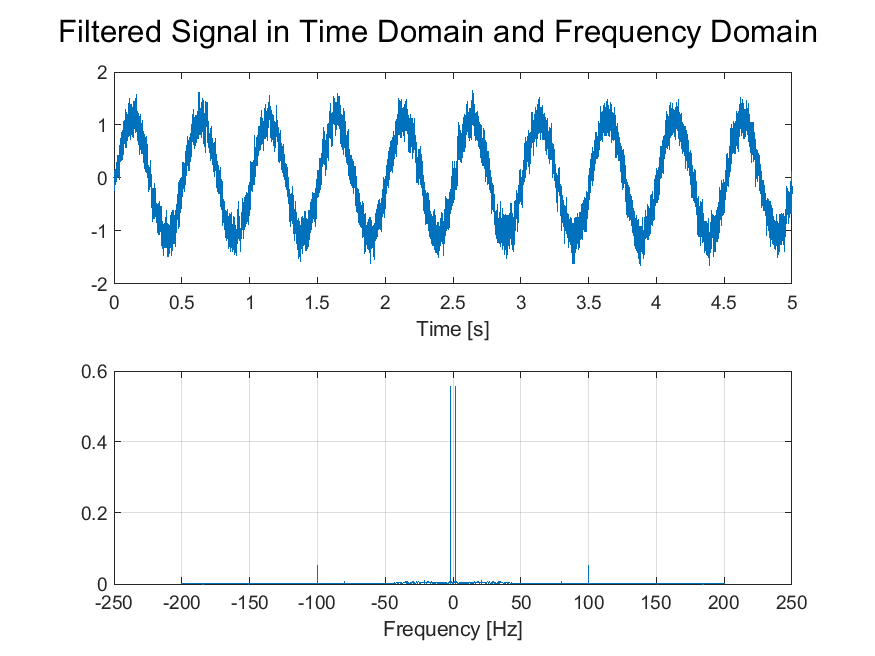
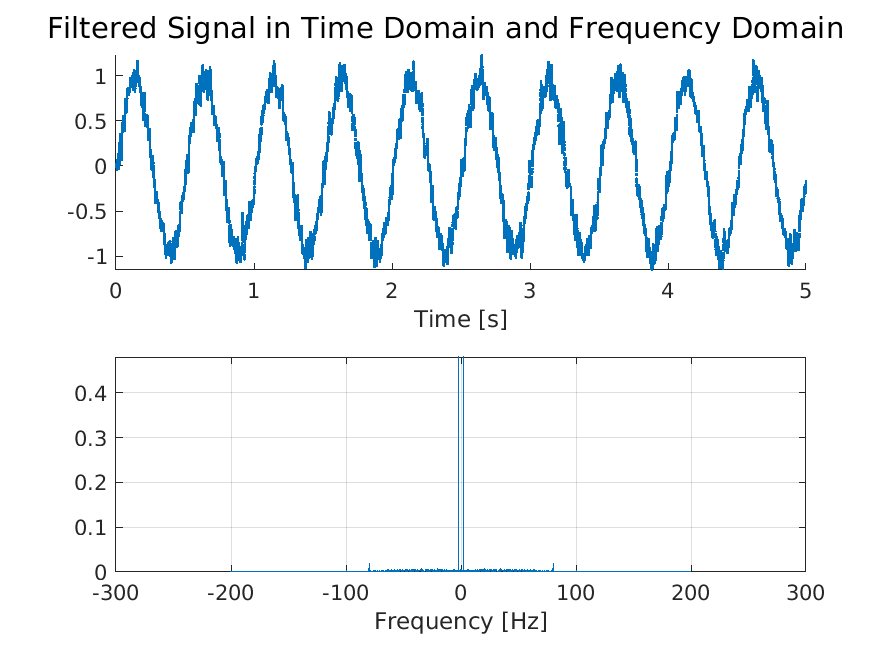
Add files via upload
Monday :)

diff --git a/Homework 1/SIS_21-22_hwk1_material/material_hw1/part02/reconstruct_signal.m b/Homework 1/SIS_21-22_hwk1_material/material_hw1/part02/reconstruct_signal.m
@@ -20,6 +20,27 @@ switch interp_method
 end
 
 % TODO: plot the fft of reconstructed signal 
+figure(3)
+dataFrequency = 5000;
+subplot(2,1,1);
+plot(tr,yr)
+xlabel("Time [s]")
+ylim([-2 2]);
+
+% Plot in frequency domain (fft)
+subplot(2,1,2);
+YR = fft(yr);
+Fmax = 200;
+fty=abs(YR/length(yr));
+f=dataFrequency/2*linspace(0,1,round(length(yr)/2));
+fty=fty(1:length(f));
+maxIndex=find(f>Fmax,1);
+plot([-f(maxIndex:-1:2) f(1:maxIndex)], [fty(maxIndex:-1:2) fty(1:maxIndex)]); grid on;
+xlabel("Frequency [Hz]")
+sgtitle("Signal in Frequency Domain");
+saveas(figure(3), "Filtered_Signal_fdomain", "png");
+
+
 
 
 end
@@ -27,16 +48,51 @@ end
 
 % TODO: Reconstruct signal by using Whittaker-Shannon interpolation
 function yr=wsSignalReconstruction(tr,ts,ys)
-
+ if(length(tr)<5*length(ts))
+        error('Reconstructed signal must have a frequency 5 times bigger than the sampling frequency');
+ end
+    Ts=(ts(2)-ts(1));
+    yr=zeros(1,length(tr));
+    %Shift from sampled signal to reconstructed signal
+    for j=1:length(tr)
+        for k=1:length(ys)        
+            shift=tr(j)-ts(k);
+            yr(j)=yr(j)+sinc(shift/Ts)*ys(k);
+        end
+    end
 
 end
 
 % TODO: Reconstruct signal by using first order hold interpolation
 function yr=FirstOrderHoldReconstruction(tr,ts,ys)
-
+    if(length(tr)<5*length(ts))
+     error('Reconstructed signal must have a frequency 5 times bigger than the sampling frequency');
+     end
+    k=0;
+    Ts=(ts(2)-ts(1));
+    Tr=(tr(2)-tr(1));
+    yr=zeros(1,length(tr));
+    for j=1:length(ts)-1
+        for k=k+1:k+round(Ts/Tr)
+            yr(k)=ys(j)+(ys(j+1)-ys(j))*(tr(k)-ts(j))/Ts;
+        end
+    end
 end
 
 % TODO: Reconstruct signal by using zero order hold interpolation
 function yr=ZeroOrderHoldReconstruction(tr,ts,ys)
+    if(length(tr)<5*length(ts))
+     error('Reconstructed signal must have a frequency 5 times bigger than the sampling frequency');
+    end
+    k=0;
+    Ts=(ts(2)-ts(1));
+    Tr=(tr(2)-tr(1));
+    yr=zeros(1,length(tr));
+    for j=1:length(ts)-1
+        for k=k+1:k+round(Ts/Tr)
+            yr(k)=ys(j);
+        end
+    end
+    
 
 end

diff --git a/Homework 1/SIS_21-22_hwk1_material/material_hw1/part02/part02.m b/Homework 1/SIS_21-22_hwk1_material/material_hw1/part02/part02.m
@@ -1,3 +1,5 @@
+
+
 %% part02: Fourier transform, signal reconstruction and filtering
 % Wanting Jin, wanting.jin@epfl.ch, Oct 2021
 clear all
@@ -16,7 +18,7 @@ t1=-limit/2:1/dataFrequency:limit/2;
 figure(1)
 subplot(2,1,1);
 % Plot in time domain
-plot(t, acc)
+scatter(t, acc, 5, '.')
 xlabel("Time [s]");
 
 subplot(2,1,2);
@@ -43,8 +45,9 @@ acc_filtered = filter_data(acc, low_pass);
 figure(2)
 % Plot in time domain
 subplot(2,1,1);
-plot(t,acc_filtered')
+scatter(t,acc_filtered', 5, '.')
 xlabel("Time [s]")
+
 
 % Plot in frequency domain (fft)
 subplot(2,1,2);
@@ -58,13 +61,13 @@ plot([-f(maxIndex:-1:2) f(1:maxIndex)], [fty(maxIndex:-1:2) fty(1:maxIndex)]); g
 xlabel("Frequency [Hz]")
 sgtitle("Filtered Signal in Time Domain and Frequency Domain");
 saveas(figure(2), "Filtered_Signal_tdomain_fdomain", "png");
-
+ 
 %save('hw1_part2.mat','low_pass');
 
 %% Q6 Sampling the signal
 % Sample the signal at 10 * freq_max
 
-[val index] = max(fty);
+[val, index] = max(fty);
 freq_max = f(index);
 Fs = 10*freq_max;
 
@@ -72,10 +75,8 @@ Fs = 10*freq_max;
 
 %% Q7 (Use reconstruct_signal() function)
 % TODO: reconstrut signal with different interpolation method
-% reconstruct_freq = 200;
-%[tr_zero, acc_r_zerohold] = reconstruct_signal(reconstruct_freq, ts, acc_sampled,'zero_order_interp');
+reconstruct_freq = 200;
+[tr_zero, acc_r_zerohold] = reconstruct_signal(reconstruct_freq, ts, acc_sampled,'zero_order_interp');
 %[tr_first, acc_r_firsthold] = reconstruct_signal(reconstruct_freq, ts, acc_sampled,'first_order_interp');
 %[tr_ws, acc_r_ws] = reconstruct_signal(reconstruct_freq, ts, acc_sampled,'ws_interp');
-
-
 

diff --git a/Homework 1/SIS_21-22_hwk1_material/material_hw1/part03/part03.m b/Homework 1/SIS_21-22_hwk1_material/material_hw1/part03/part03.m
@@ -2,14 +2,35 @@
 % Kagan Erunsal, kagan.erunsal@epfl.ch, Oct 2021
 
 %% Q11 (use ilaplace())
+syms C_sym R_sym s_sym t_sym u_sym
+assume(s_sym >0);
+H2 = 1/(s_sym*C_sym*R_sym+ 1);
+h2 = ilaplace(H2, s_sym); 
+simplify(h2);
 
 %% Q12
+R = 1;
+C = 1; 
+H1 = R/(s_sym*C*R + 1);
 
 % a (use tf() and step())
-
+figure(1)
+subplot(2,1,1)
+H1_tf = tf(R, [C*R, 1]);
+step(H1_tf)
 
 % b (use int())
+assume(s_sym, 'clear')
+assume(t_sym > 0);
+h1 = (1/C)*(exp(-t_sym/(C*R))*u_sym);
+H1_int = int(h1, t_sym, -inf, inf);
+simplify(h1);
+simplify(H1_int);
 
+subplot(2,1,2)
+fplot(H1_int)
+saveas(figure(1), "Q12_Step_response", "png");
+assume(t_sym, 'clear')
 %% Q13
 
 

diff --git a/Homework 1/SIS_21-22_hwk1_material/material_hw1/part02/sample_data.m b/Homework 1/SIS_21-22_hwk1_material/material_hw1/part02/sample_data.m
@@ -6,12 +6,19 @@ function [ts,ys]=sample_data(t,y,Fs)
 % y: original data
 % Fs: sampling frequency
 
-ts = zeros(round(length(y)/20),1);
-ys = zeros(round(length(y)/20),1);
-
-for i=1:1:round(length(y)/20)
-    ts(i) = t(i+20);
-    ys(i) = y(i+20);
+% ts = zeros(round(length(y)/20),1);
+% ys = zeros(round(length(y)/20),1);
+% 
+% for i=1:1:round(length(y)/20)
+%     ts(i) = t(i+20);
+%     ys(i) = y(i+20);
+% end
+originalFrequency=1/(t(2)-t(1));
+if(5*Fs>originalFrequency)
+    error('Sampling frequency must be at least 5 times smaller than the original frequency');
 end
+step=round(originalFrequency/Fs);
+ts=t(1:step:end);
+ys=y(1:step:end);
 
 end

diff --git a/Homework 1/SIS_21-22_hwk1_material/material_hw1/part01/part01.m b/Homework 1/SIS_21-22_hwk1_material/material_hw1/part01/part01.m
@@ -18,7 +18,7 @@ for i=1:length(n)
 end 
 
  figure(1)
- scatter(n,s)
+ stem(n,s, '.')
  title('Signal s');
  xlabel('n');
  ylabel('s[n]')
@@ -34,7 +34,7 @@ for i=1:length(n)
 end 
 
  figure(2)
- scatter(n,h)
+ stem(n,h, '.')
  title('Signal h');
  xlabel('n');
  ylabel('h[n]')
@@ -46,5 +46,5 @@ second_signal = s;
 result = take_conv(first_signal,second_signal);
 x = -length(n)+1:length(n)-1;
 figure(3)
-stem(x, result)
+stem(x, result, '.')
 title('Discrete Convolution (h*s)')

diff --git a/Homework 1/SIS_21-22_hwk1_material/material_hw1/part02/filter_data.m b/Homework 1/SIS_21-22_hwk1_material/material_hw1/part02/filter_data.m
@@ -16,6 +16,3 @@ for(n=1:1:length(y))
     end
 end
 
-
-
-
